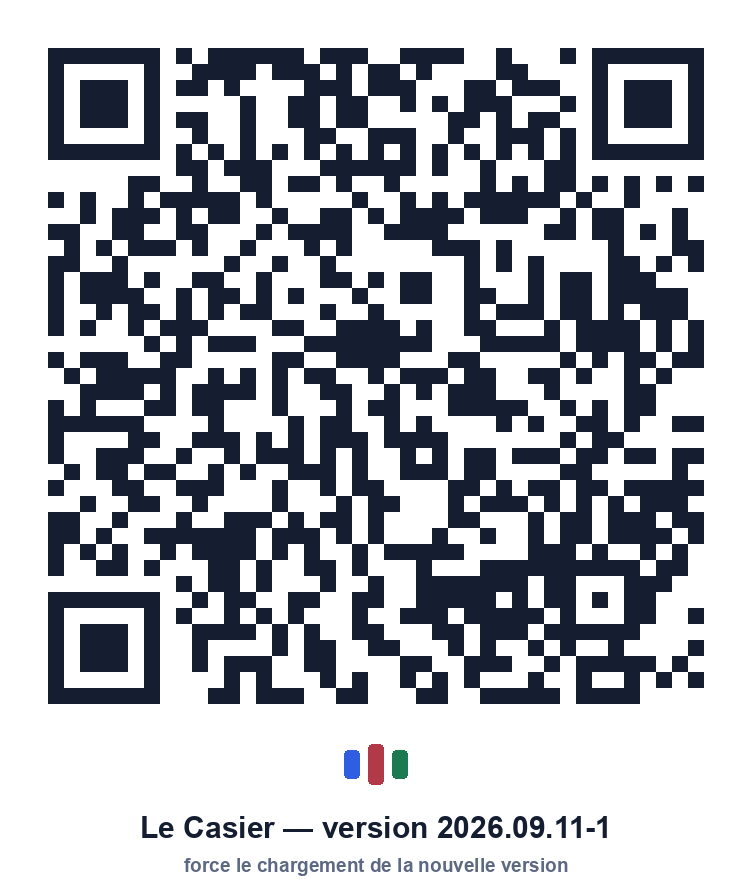
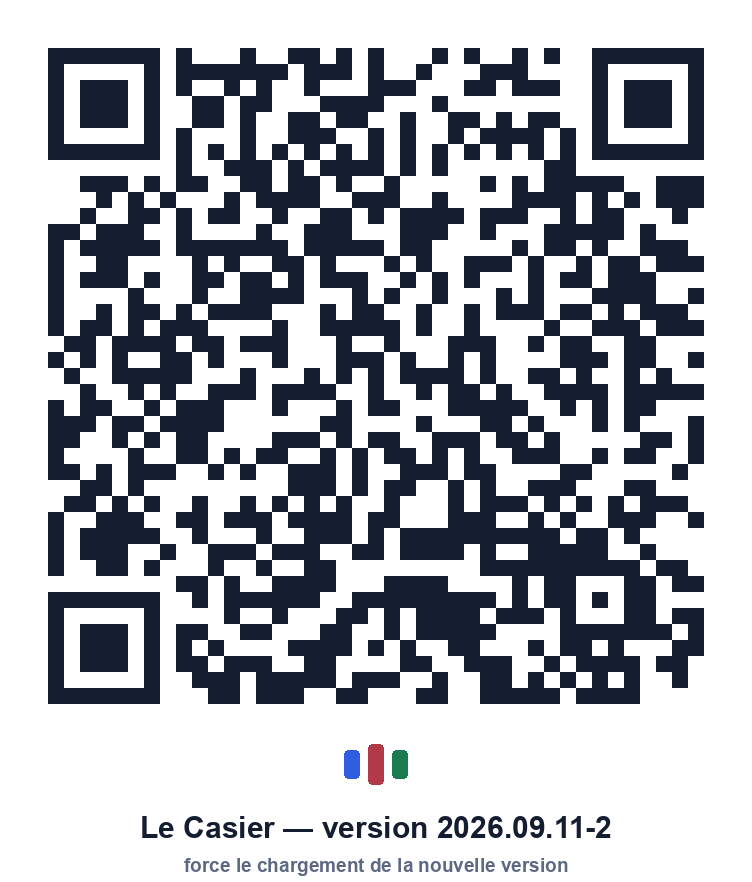
Relire les conversations à l'ouverture de l'onglet Messages
La liste était constituée au démarrage seulement. Un chargement manqué —
réveil du téléphone, réseau hésitant — la laissait vide pour toute la
session, alors que les conversations existaient : on ne pouvait plus y
accéder qu'en repassant par l'annonce.

Quand la liste est vide, l'écran indique désormais sous quel compte on
est connecté. Deux comptes portant le même pseudo ne se distinguent
autrement que par la classe, et les conversations de l'un sont
invisibles depuis l'autre.

Changed region(s): [[0.0612, 0.0306, 0.9481, 0.7959], [0.7952, 0.9184, 0.8258, 0.949]]

diff --git a/index.html b/index.html
@@ -872,7 +872,7 @@ label .opt{font-weight:400;color:var(--faint)}
   // secrets de la fonction serveur.
   var CLE_PUSH = "BPct_TKB40uTbAGg0UzNCCMcbk60LYQaGHmH0XqXWcTR_Lo7qj2U6wm37kCgpWWynKLWarLx3lWfhRR40eizzkM";
 
-  var VERSION_APP = "2026.09.11-1";   // affiché en bas : permet de savoir ce que tourne un téléphone
+  var VERSION_APP = "2026.09.11-2";   // affiché en bas : permet de savoir ce que tourne un téléphone
   var PLAFOND_PRIX  = 40;   // € — fixé par la Maison des lycéens, pas par les élèves
   var PLANCHER_PRIX = 0.1;  // € — en dessous, mieux vaut donner ou troquer
   var PAS_PRIX      = 0.05; // € — les prix vont de cinq centimes en cinq centimes
@@ -2585,6 +2585,9 @@ label .opt{font-weight:400;color:var(--faint)}
       return '<h2 class="section-title">Messages</h2>' +
         '<div class="empty"><p>Aucune discussion pour l\'instant.</p>' +
         "<p style=\"font-size:13px\">Ouvrez une annonce et touchez « Écrire » pour convenir d'un rendez-vous.</p>" +
+        '<p style="font-size:12px;color:var(--faint)">Connectée en <b>' + esc(state.me.pseudo) +
+        (state.me.classe ? " · " + esc(state.me.classe) : "") +
+        "</b>. Les conversations d'un autre compte n'apparaissent pas ici.</p>" +
         '<button class="btn ghost" data-act="aller-catalogue">Parcourir le catalogue</button></div>';
     }
 
@@ -4103,6 +4106,10 @@ label .opt{font-weight:400;color:var(--faint)}
     state.filOuvert = null;
     render();
     if (state.onglet === "moi") rafraichirPush().then(render);
+    // Les fils sont relus à l'ouverture de l'onglet : un chargement raté
+    // au démarrage laissait sinon la liste vide jusqu'au prochain
+    // lancement, alors que les conversations existaient.
+    if (state.onglet === "messages") chargerFils().then(render);
     window.scrollTo({ top: 0, behavior: "instant" });
   });
 

diff --git a/sw.js b/sw.js
@@ -5,7 +5,7 @@
 // première réponse reçue, définitivement. Seuls les fichiers de
 // l'application — qui ne changent qu'à une publication — sont cachés.
 
-const VERSION = "casier-20260911-1";
+const VERSION = "casier-20260911-2";
 const COQUILLE = [
   "./",
   "./index.html",
